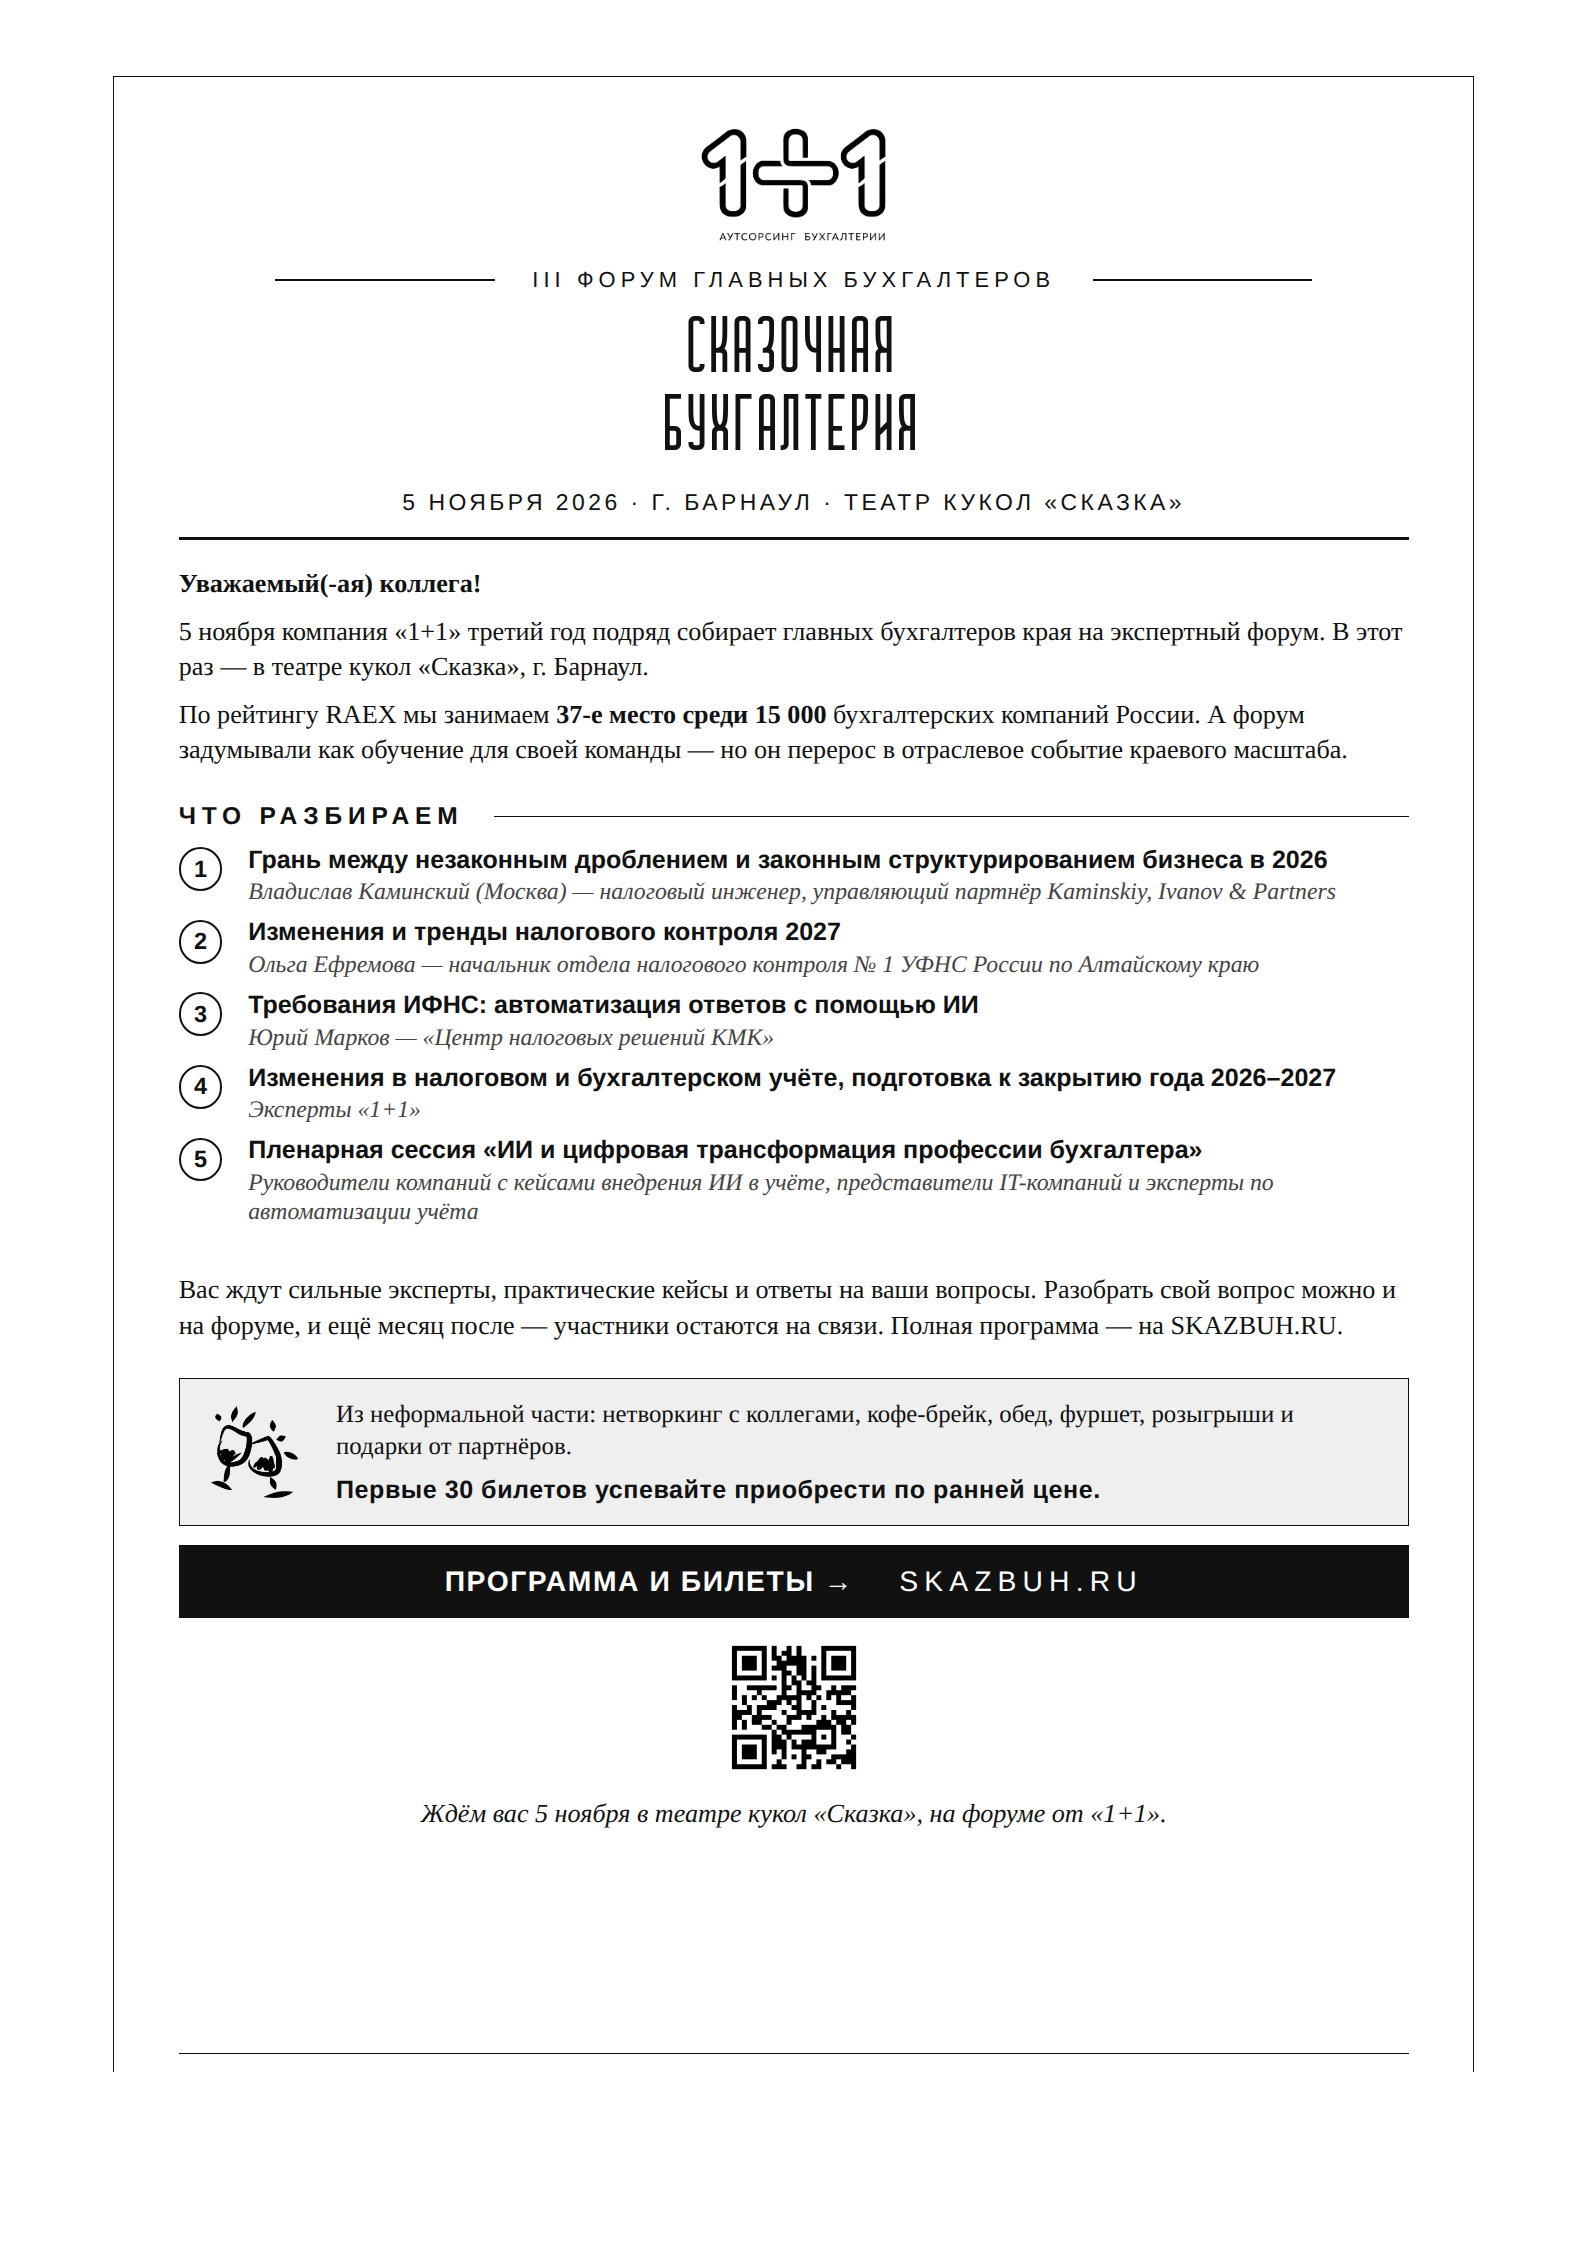
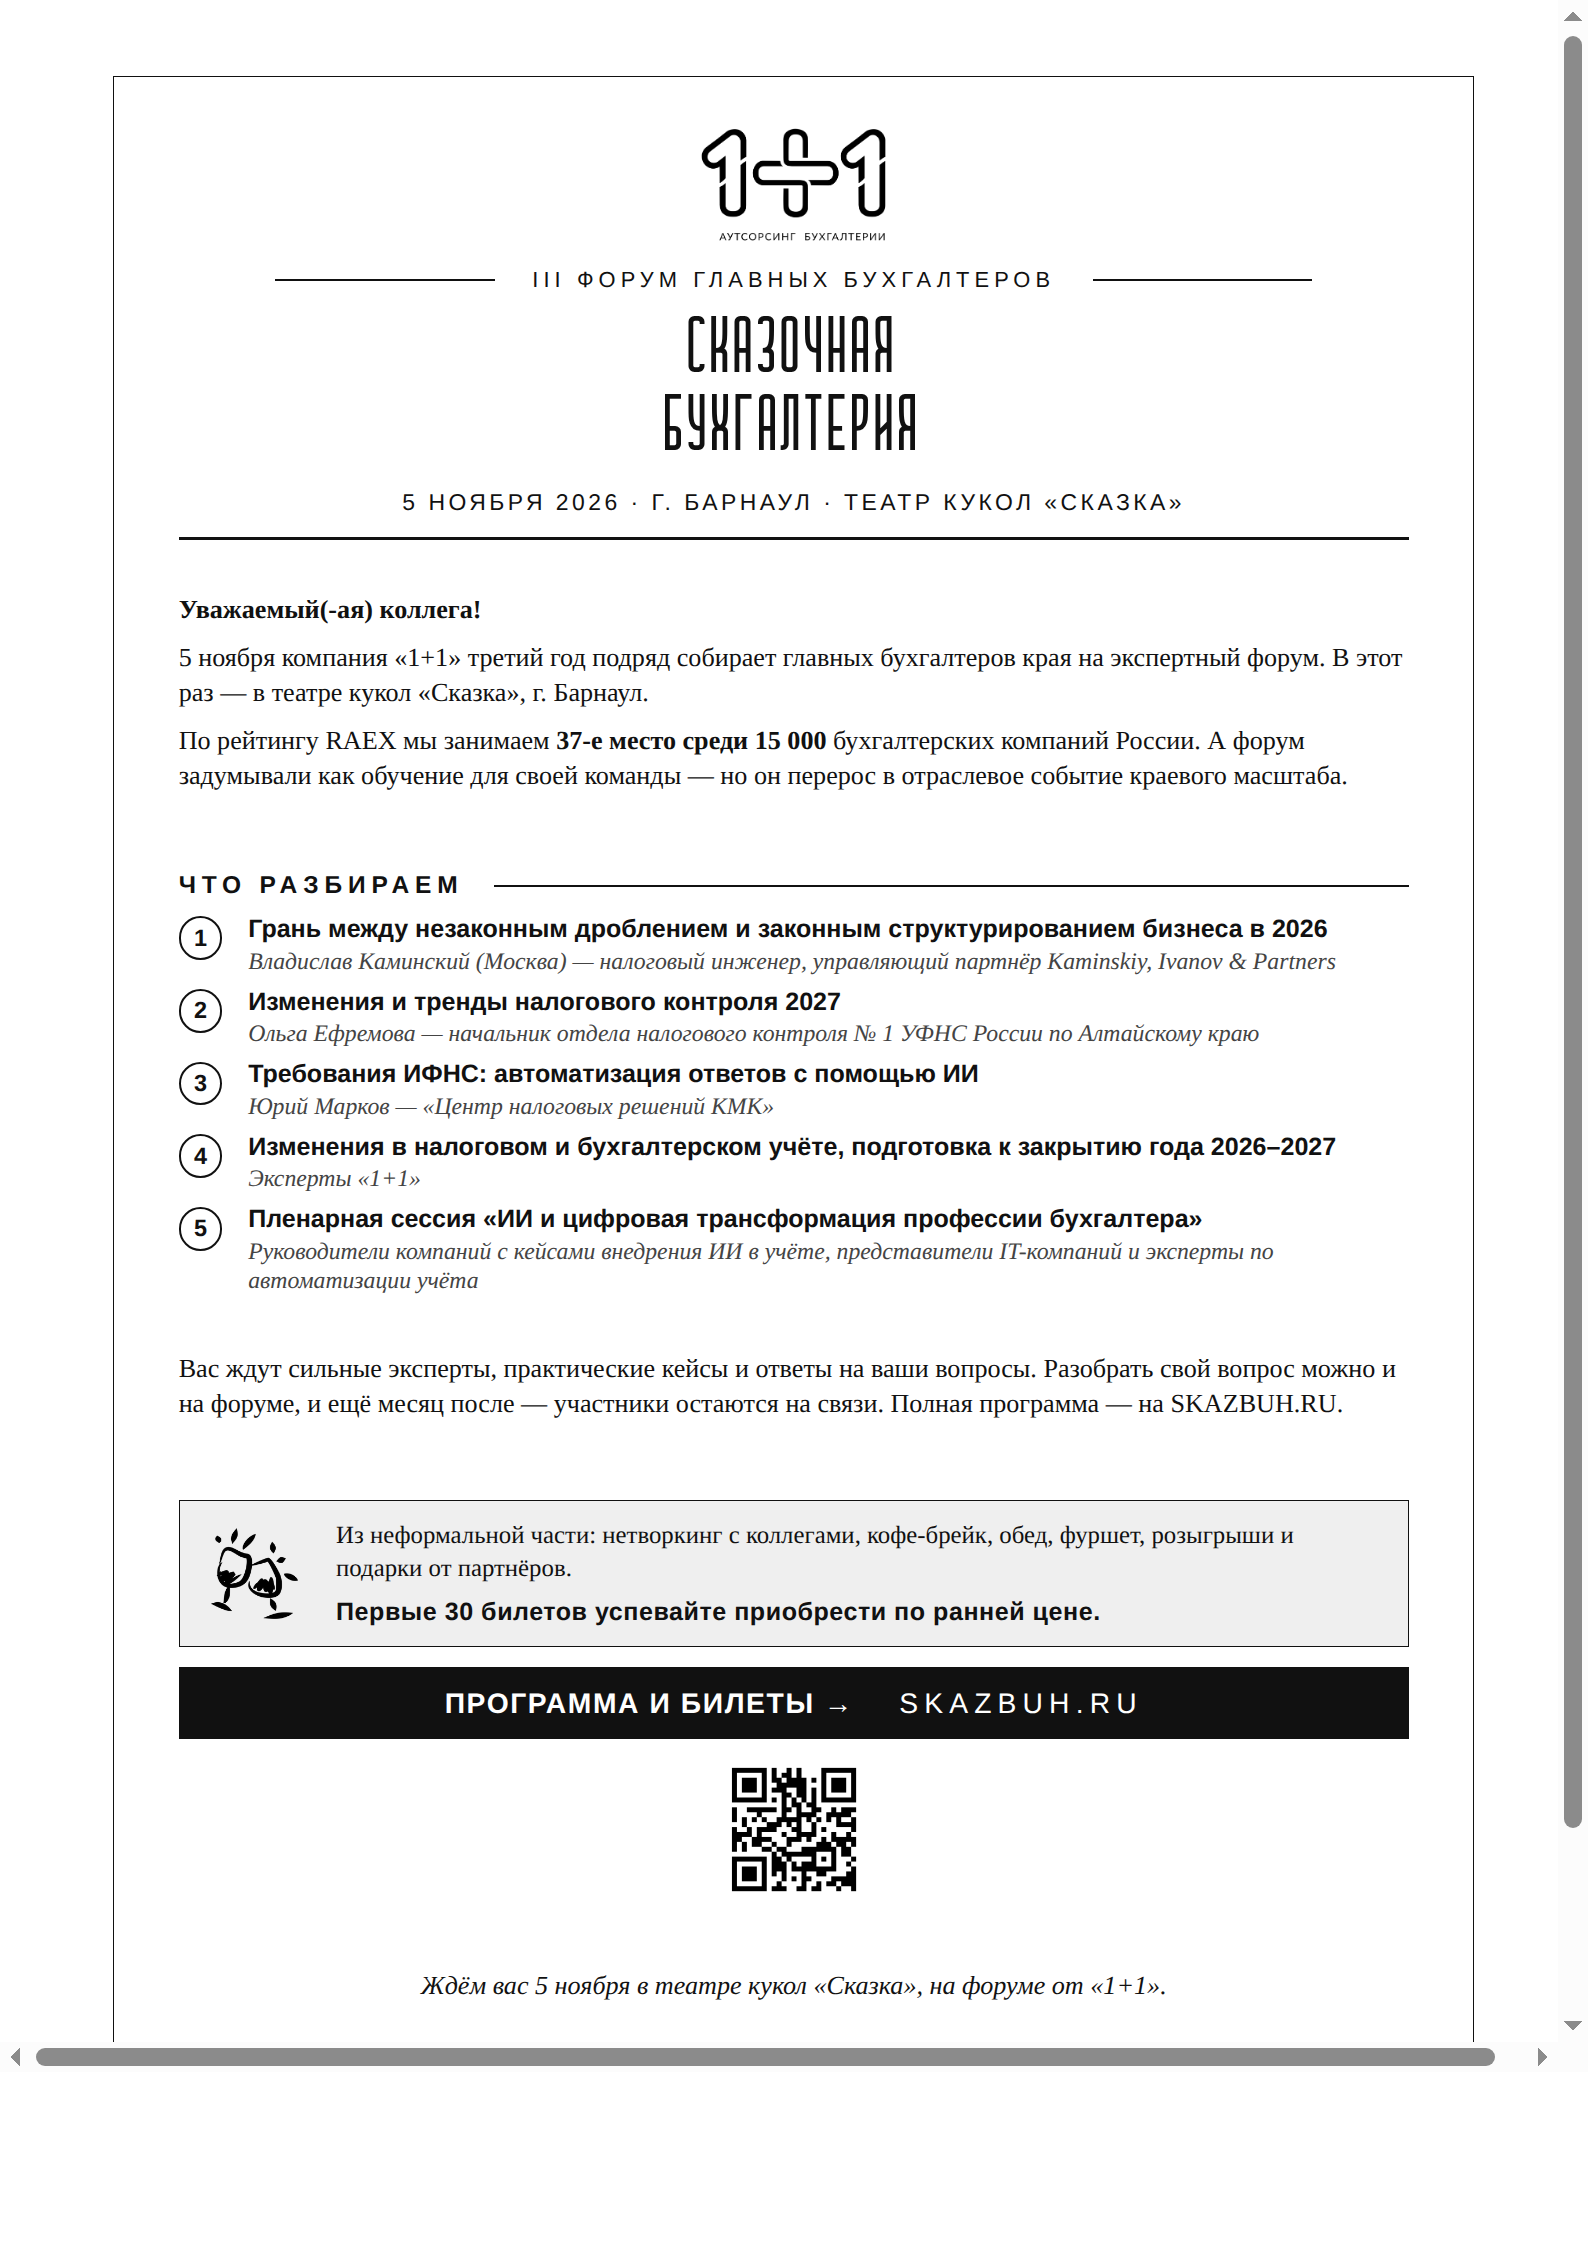
Distribute A4 vertical whitespace evenly (fix bottom gap)
Replace the single flex spacer above the footer with several weighted
flexible gaps at the natural section joints, so the leftover height is
shared across the letter instead of pooling into one hole between the
closing line and the footer. Content now fills the page evenly on one A4.

Claude-Session: https://claude.ai/code/session_01DZEn5nyTAWE8zavBUm6caU

Changed region(s): [[0.0926, 0.2493, 0.8948, 0.8415], [0.0309, 0.8727, 0.9565, 0.935], [0.9874, 0.0, 1.0, 0.8103]]

diff --git a/conference-skazbuh/print/letter-a4.html b/conference-skazbuh/print/letter-a4.html
@@ -68,7 +68,9 @@
 
   .closing{ font-size:9.8pt; text-align:center; margin-top:2.6mm; font-style:italic; }
 
-  .spacer{ flex:1 1 auto; min-height:2mm; }
+  /* flexible breathing gaps — distribute leftover height evenly instead of
+     pooling it into one hole above the footer */
+  .gap{ flex:1 1 0; min-height:1.5mm; }
   .foot{ border-top:0.5pt solid #111; margin-top:3mm; padding-top:2mm;
          font-family:'Liberation Sans',Arial,sans-serif; font-size:7.9pt; color:#333;
          text-align:center; line-height:1.45; letter-spacing:.2pt; }
@@ -88,11 +90,15 @@
 
       <hr class="rule2">
 
+      <div class="gap" style="flex-grow:.6"></div>
+
       <div class="body">
         <p class="hi">Уважаемый(-ая) коллега!</p>
         <p>5&nbsp;ноября компания «1+1» третий год подряд собирает главных бухгалтеров края на экспертный форум. В этот раз — в театре кукол «Сказка», г.&nbsp;Барнаул.</p>
         <p>По рейтингу RAEX мы занимаем <b>37-е&nbsp;место среди 15&nbsp;000</b> бухгалтерских компаний России. А форум задумывали как обучение для своей команды — но он перерос в отраслевое событие краевого масштаба.</p>
       </div>
+
+      <div class="gap"></div>
 
       <div class="section"><span>Что разбираем</span><span class="ln"></span></div>
 
@@ -132,9 +138,13 @@
         </div>
       </div>
 
-      <div class="body" style="margin-top:4.5mm;">
+      <div class="gap"></div>
+
+      <div class="body" style="margin-top:0;">
         <p>Вас ждут сильные эксперты, практические кейсы и ответы на ваши вопросы. Разобрать свой вопрос можно и на форуме, и ещё месяц после — участники остаются на связи. Полная программа — на SKAZBUH.RU.</p>
       </div>
+
+      <div class="gap"></div>
 
       <div class="callout">
         <img class="cic" src="file:///home/user/design-system/conference-skazbuh/print/bokaly-black.png" alt="">
@@ -153,9 +163,11 @@
         <img src="file:///home/user/design-system/conference-skazbuh/print/qr-skazbuh.png" alt="QR-код на сайт SKAZBUH.RU">
       </div>
 
+      <div class="gap" style="flex-grow:1.15"></div>
+
       <div class="closing">Ждём вас 5&nbsp;ноября в театре кукол «Сказка», на форуме от «1+1».</div>
 
-      <div class="spacer"></div>
+      <div class="gap" style="flex-grow:.7"></div>
 
       <div class="foot">
         ИП Семенцова Анастасия Павловна&nbsp;&nbsp;·&nbsp;&nbsp;ОГРНИП 325220200061632<br>
